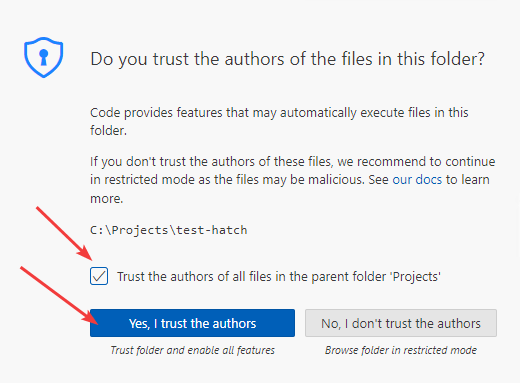
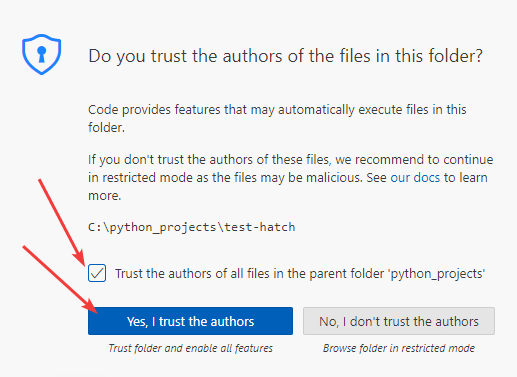
Update hatch-vscode-python

diff --git a/hatch-vscode-python/hatch-vscode-python.md b/hatch-vscode-python/hatch-vscode-python.md
@@ -35,16 +35,20 @@ attribution:
 
 ![Featured image](featured-image.svg)
 
-Вместо Pipenv, venv используем современный [Hatch](https://hatch.pypa.io/latest/) для работы с виртуальным окружением.
+Вместо Pipenv, venv используем современный Hatch для работы с виртуальным окружением.
+
+## Ссылки
+
+- [Hatch](https://hatch.pypa.io/latest/) — документация.
 
 ## Подготовка
 
 <details>
 <summary>Установка программ и создание проекта</summary>
 
-Разумеется, нужен Python. Если его нет, то смотрите статью [Установка Python](https://github.com/Harrix/harrix.dev-articles-2021/blob/main/install-python/install-python.md)<!-- https://harrix.dev/ru/articles/2021/install-python/ -->.
+Разумеется, нужен Python. Если его нет, то смотрите статью [Установка Python](https://github.com/Harrix/harrix.dev-articles-2021/blob/main/install-python/install-python.md) | [🡥](https://harrix.dev/ru/articles/2021/install-python/).
 
-Нужен VSCode. Если его нет, то смотрите статью [Установка Visual Studio Code (простая)](https://github.com/Harrix/harrix.dev-articles-2021/blob/main/install-vscode-simple/install-vscode-simple.md)<!-- https://harrix.dev/ru/articles/2021/install-vscode-simple/ -->.
+Нужен VSCode. Если его нет, то смотрите статью [Установка Visual Studio Code (простая)](https://github.com/Harrix/harrix.dev-articles-2021/blob/main/install-vscode-simple/install-vscode-simple.md) | [🡥](https://harrix.dev/ru/articles/2021/install-vscode-simple/).
 
 Нужно расширение Python в VScode:
 
@@ -54,11 +58,11 @@ _Рисунок 1 — Установка расширения Python_
 
 Не забудьте перейти в раздел файлов:
 
-![Раздел Explorer](img/files.png)
+![Раздел Explorer](img/explorer.png)
 
 _Рисунок 2 — Раздел Explorer_
 
-Создайте на компьютере папку, где будет располагаться  проект, например, `C:\Projects\test-hatch`.  Через `File` → `Open Folder...` откройте эту папку:
+Создайте на компьютере папку, где будет располагаться  проект, например, `C:\python-projects\test-hatch`.  Через `File` → `Open Folder...` откройте эту папку:
 
 ![Открытие папки](img/open-folder_01.png)
 
@@ -70,23 +74,11 @@ _Рисунок 3 — Открытие папки_
 
 _Рисунок 4 — Подтверждение доступа к папке_
 
-Создаем новый файл в папке, кликая правой кнопкой по пустому пространству в папке:
-
-![Создание нового файла](img/new-file_01.png)
-
-_Рисунок 5 — Создание нового файла_
-
-Вводите имя файл, например, `main.py` и нажимаем `Enter`:
-
-![Ввод имени нового файла](img/new-file_02.png)
-
-_Рисунок 6 — Ввод имени нового файла_
-
 </details>
 
 ## Установка Hatch
 
-Вызываем консоль `Ctrl` → `` ` `` (`Ctrl` → `Ё`), прописываем команду установки Hatch глобально:
+Вызываем консоль `Ctrl` → `` ` `` (`Ctrl` → `Ё`), прописываем команду установки Hatch глобально (после ввода команды не забываем нажать `Enter`):
 
 ```console
 pip install hatch
@@ -104,15 +96,17 @@ _Рисунок 7 — Установка Hatch_
 
 _Рисунок 8 — Обновление pip_
 
-Теперь можно инициализировать рфеср с виртуальной средой через команду:
+Теперь можно создать проект для Hatch. Вместо `Test Hatch` введите имя своего проекта:
 
 ```console
-hatch  install hatch
+hatch new "Test Hatch"
 ```
 
-![](img/init.png)
+Вас попросят ввести название проекта и его описание (его можно опустить):
 
-_Рисунок  — _
+![Инициализация проекта](img/init.png)
+
+_Рисунок 9 — Инициализация проекта_
 
 ![](img/.png)
 
